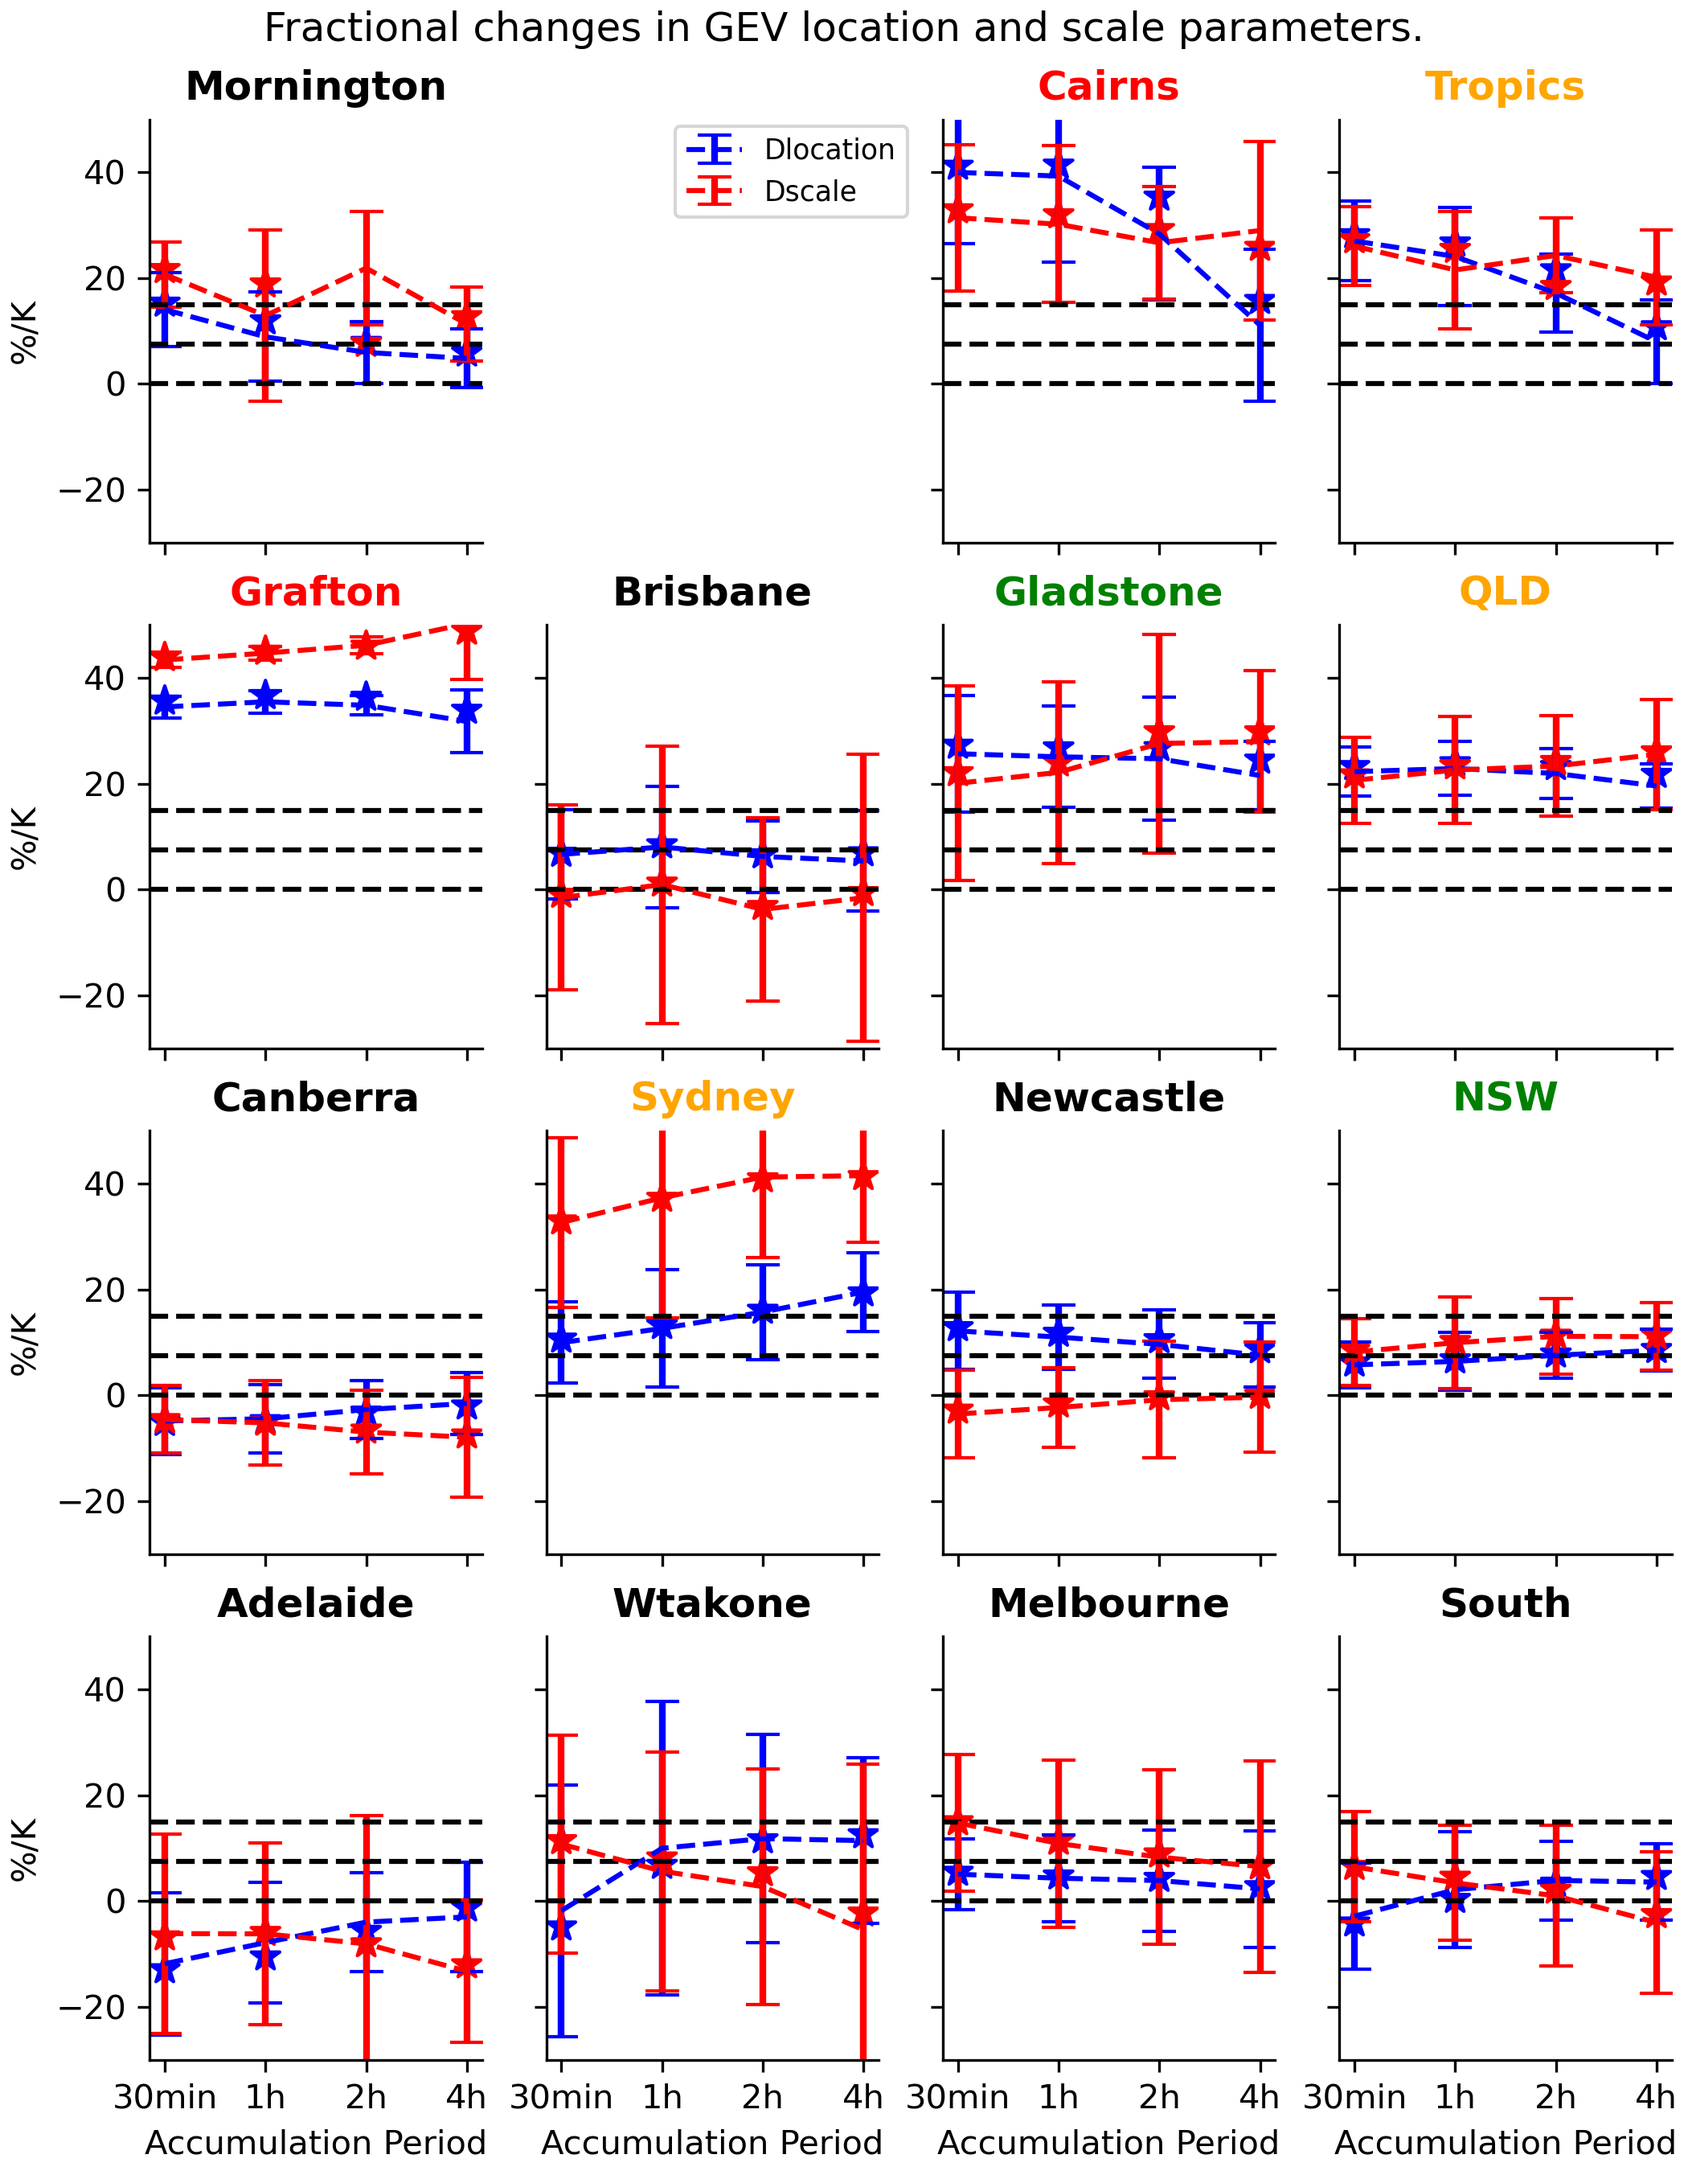
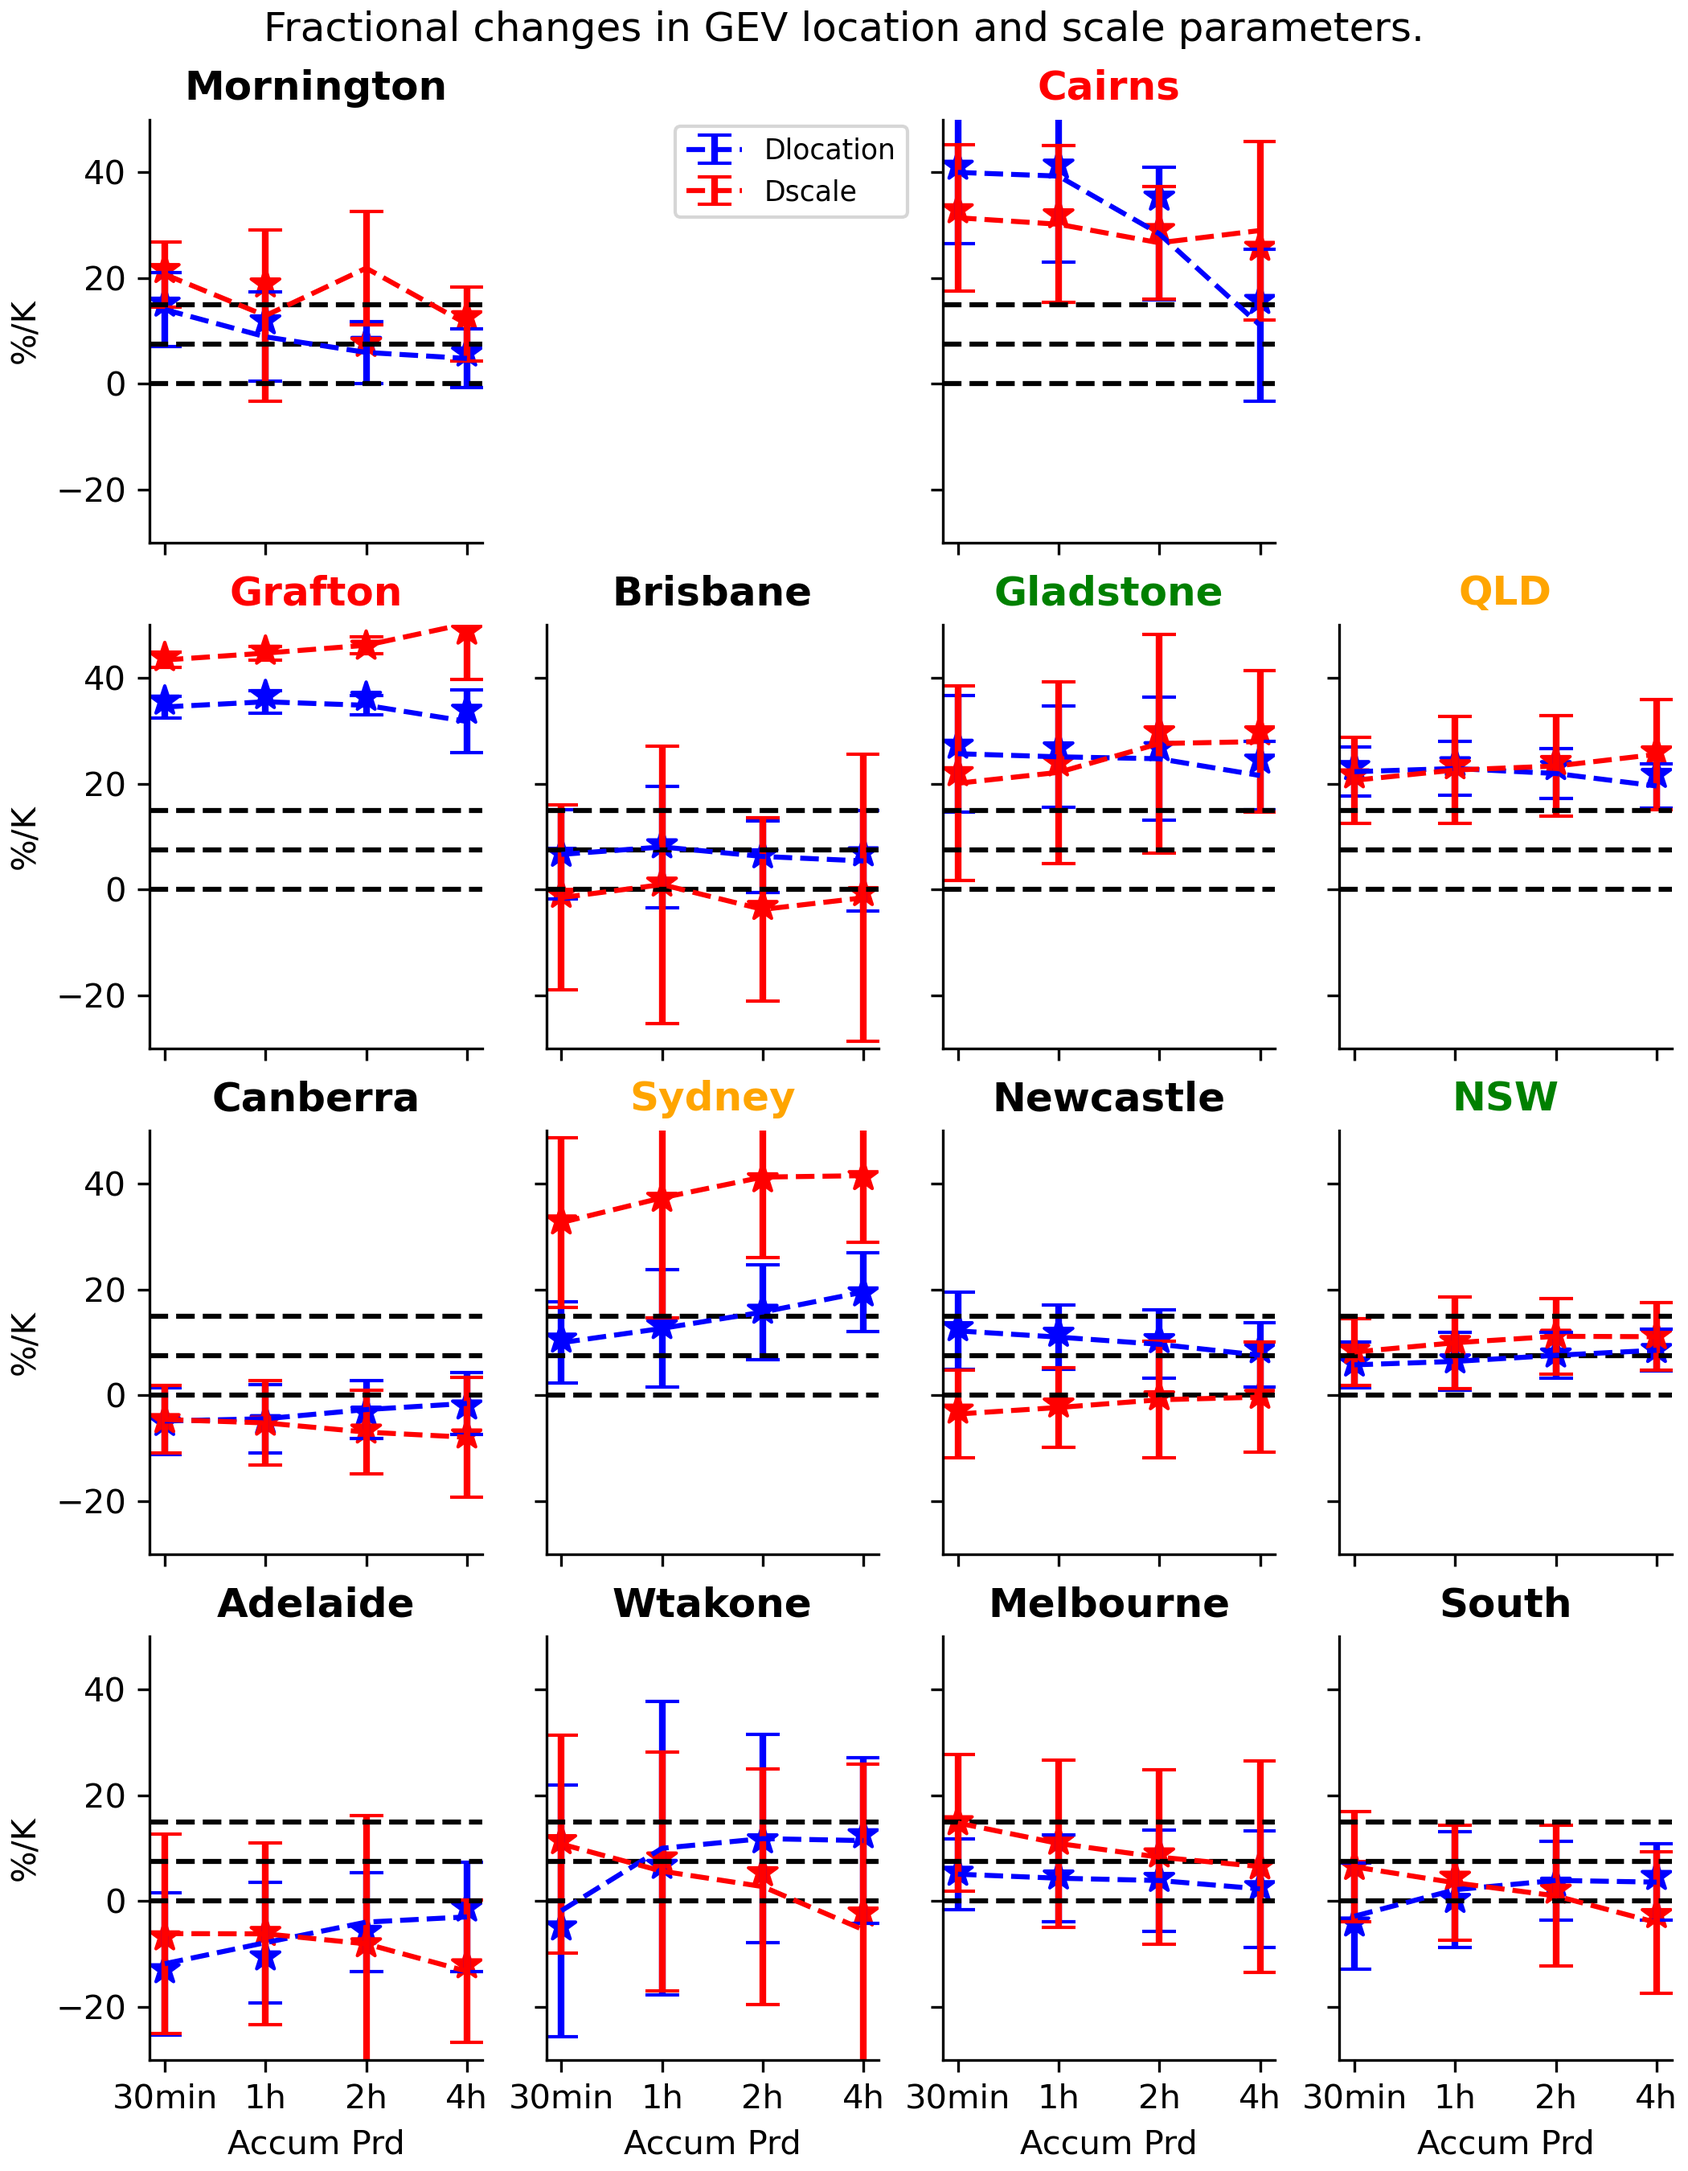
Now have figure for empirical vs theoretical distributions. + no longer showing tropics.

diff --git a/plots/plot_gev_data_fit.py b/plots/plot_gev_data_fit.py
@@ -4,31 +4,79 @@ import xarray
 import commonLib
 import scipy.stats
 import matplotlib.pyplot as plt
-name='Sydney_rain_melbourne'
-#name='Melbourne_rain_melbourne'
-dir = ausLib.data_dir/'processed'/name
-events = xarray.load_dataset(dir/f'events_seas_mean_{name}_DJF.nc').sel(resample_prd='1h') # events
-fits= xarray.load_dataset(dir/'fits'/'gev_fit_temp.nc').sel(resample_prd='1h') # fits to data
-params = fits.Parameters.mean('sample')
-# normalise the data
-anomT = events.ObsT - events.ObsT.mean('EventTime')
-loc = params.sel(parameter='location')+anomT*params.sel(parameter='Dlocation_Tanom') # location param
-scale = params.sel(parameter='scale')+anomT*params.sel(parameter='Dscale_Tanom') # scale param
-L=events.max_value > 0.5
-norm_data = (events.max_value.where(L)-loc)/scale
-norm_data = norm_data.stack(idx=['quantv','EventTime']).dropna('idx')
-gev= scipy.stats.genextreme( c=params.sel(parameter='shape'))
-fig = plt.figure(num='prob_plot',clear=True)
-ax = fig.add_subplot(111)
-osm, osr = scipy.stats.probplot(norm_data,dist=gev,fit=False)
-ax.scatter(osm,osr,marker='.',s=1)
-ax.set_xlabel('Theoretical quantiles')
-ax.set_ylabel('Ordered Values')
-ax.axline((1,1),slope=1,color='r')
-ax.set_xscale('log')
-ax.set_yscale('log')
-ax.set_ylim(0.1,None)
-ax.set_xlim(0.1,None)
-ax.plot(*[gev.median()]*2,'ro')
-ax.set_title(name)
+from matplotlib.ticker import MaxNLocator
+# get in the data.
+norm_data=dict()
+norm_crit=dict()
+shape=dict()
+delta_aic=dict()
+my_logger = ausLib.setup_log(1)
+use_cache=False
+if not (use_cache and ('loaded_gev_data_fit' in locals())):
+    for site in ausLib.site_numbers.keys():
+        name = site + '_rain_melbourne'
+        dir = ausLib.data_dir / 'processed' / name
+        events = xarray.load_dataset(dir / f'events_seas_mean_{name}_DJF.nc')  # events
+        fits_t = xarray.load_dataset(dir / 'fits' / 'gev_fit_temp.nc')  # fits to data
+        fits = xarray.load_dataset(dir / 'fits' / 'gev_fit.nc')  # fits to data
+        delta_aic[site] = (fits_t.AIC - fits.AIC).mean('sample').drop_sel(resample_prd='8h')
+        params = fits_t.Parameters.mean('sample')
+        # remove small values
+        L = events.max_value > 0.5
+        events = events.where(L)
+        # normalise the data
+        anomT = events.ObsT - events.ObsT.mean('EventTime')
+        loc = params.sel(parameter='location') + anomT * params.sel(parameter='Dlocation_Tanom')  # location param
+        scale = params.sel(parameter='scale') + anomT * params.sel(parameter='Dscale_Tanom')  # scale param
+        norm_data[site] = (events.max_value - loc) / scale
+        shape[site] = params.sel(parameter='shape')
+
+        my_logger.debug(f'Loaded {site}')
+    my_logger.info('Loaded data')
+    loaded_gev_data_fit = True
+else:
+    my_logger.info('Using cached data')
+
+## plot the data
+fig,axs = ausLib.std_fig_axs('gev_data_fit',sharex=True,sharey=True)
+
+for site,ax in axs.items():
+    for prd,col in zip(['30min','1h','2h','4h'],['r','g','b','brown']):
+        data = norm_data[site].selFalse(resample_prd=prd).isel(quantv=slice(1,-1)).stack(idx=['quantv','EventTime']).dropna('idx')
+        gev= scipy.stats.genextreme( c=shape[site].sel(resample_prd=prd))
+        osm, osr = scipy.stats.probplot(data,dist=gev,fit=False)
+        ax.scatter(osm,osr,marker='.',s=1,color=col,label=prd)
+        med = gev.median()
+        ax.plot(med,data.median(), color=col, marker='+', markersize=15)
+    ax.axline((1,1),(10,10),color='k')
+    ax.set_xlabel('Theoretical ')
+    ax.set_ylabel('Empirical')
+    ax.set_xscale('log')
+    ax.set_yscale('log')
+    ax.set_ylim(0.1,100)
+    ax.set_xlim(0.1,100)
+    ax.label_outer()
+    ax.set_title(site)
+
+    # add an inset plot for the AIC changes
+    ax_inset = ax.inset_axes([0.125,0.65,0.35,0.3],zorder=0)
+    (-delta_aic[site]/1000).plot(ax=ax_inset,color='k',marker='o')
+    print(site,delta_aic[site].values)
+    ax_inset.set_title(r'$-\Delta$ AIC $\times 10^{-3}$',size='small',pad=0)
+    ax_inset.set_ylabel('')
+    ax_inset.set_xlabel('')
+    #ax_inset.set_ylim(-50,0)
+    ax_inset.tick_params(axis='x',labelsize='x-small',labelrotation=45)
+    ax_inset.tick_params(axis='y',labelsize='x-small',pad=0,direction='in')
+    ax_inset.axhline(0,color='k',linestyle='--')
+    ax_inset.yaxis.set_major_locator(MaxNLocator(nbins=5))
+    ax_inset.label_outer()
+    # done making indivisual plots.
+#general figure stuff
+handles, labels = axs['Melbourne'].get_legend_handles_labels()
+for handle in handles:
+    handle._sizes= [10.0] # ass suggested by chatGPT
+legend=fig.legend(handles, labels, loc=(0.4, 0.9), fontsize='small')
+
 fig.show()
+commonLib.saveFig(fig)

diff --git a/ausLib.py b/ausLib.py
@@ -35,7 +35,8 @@ site_numbers = dict(Adelaide=46, Melbourne=2, Wtakone=52, Sydney=3, Brisbane=50,
                     Cairns=19, Mornington=36, Grafton=28, Newcastle=4, Gladstone=23
                     )
 site_names = dict(zip(site_numbers.values(), site_numbers.keys()))  # reverse lookup
-region_names = dict(Tropics=['Cairns', 'Mornington'],
+region_names = dict(#Tropics=['Cairns', 'Mornington'],
+                    BLANK=['Mornington','Cairns'], # tropics is blank coz Mornington is poor.
                     QLD=['Gladstone', 'Brisbane', 'Grafton'],
                     NSW=['Newcastle', 'Sydney', 'Canberra'],
                     South=['Melbourne', 'Wtakone', 'Adelaide']
@@ -1346,6 +1347,7 @@ def std_fig_axs(fig_num, reduce_spline: bool = True, regions: bool = False, **kw
 
     if regions:
         mosaic = [row + [rname] for row, rname in zip(mosaic, region_names.keys())]
+
     args = dict(num=fig_num, clear=True, figsize=(7, 9), layout='constrained',
                 empty_sentinel='BLANK', )  # default args,
     args.update(**kwargs)  # update with any passed in args

diff --git a/plots/plot_gev_fits.py b/plots/plot_gev_fits.py
@@ -96,6 +96,9 @@ if __name__ == '__main__':
                 my_logger.warning(f'No data for {site}')
                 continue
             site_ds += [gev[site].expand_dims(site=[site])]
+        if len(site_ds) == 0:
+            my_logger.warning(f'No data for {reg_name}')
+            continue
         site_ds = xarray.concat(site_ds, dim='site').mean(dim='site')
         gev[reg_name] = xarray.Dataset(site_ds)
     my_logger.info('Processed regions')
@@ -132,7 +135,7 @@ if __name__ == '__main__':
             ax.axhline(v, linestyle='--', color='black')
             ax.set_ylim(-30, 50)
         ax.set_ylabel('%/K')
-        ax.set_xlabel('Accumulation Period')
+        ax.set_xlabel('Accum Prd')
         # work out colour for site
         color = 'black'
         rp = '1h'
